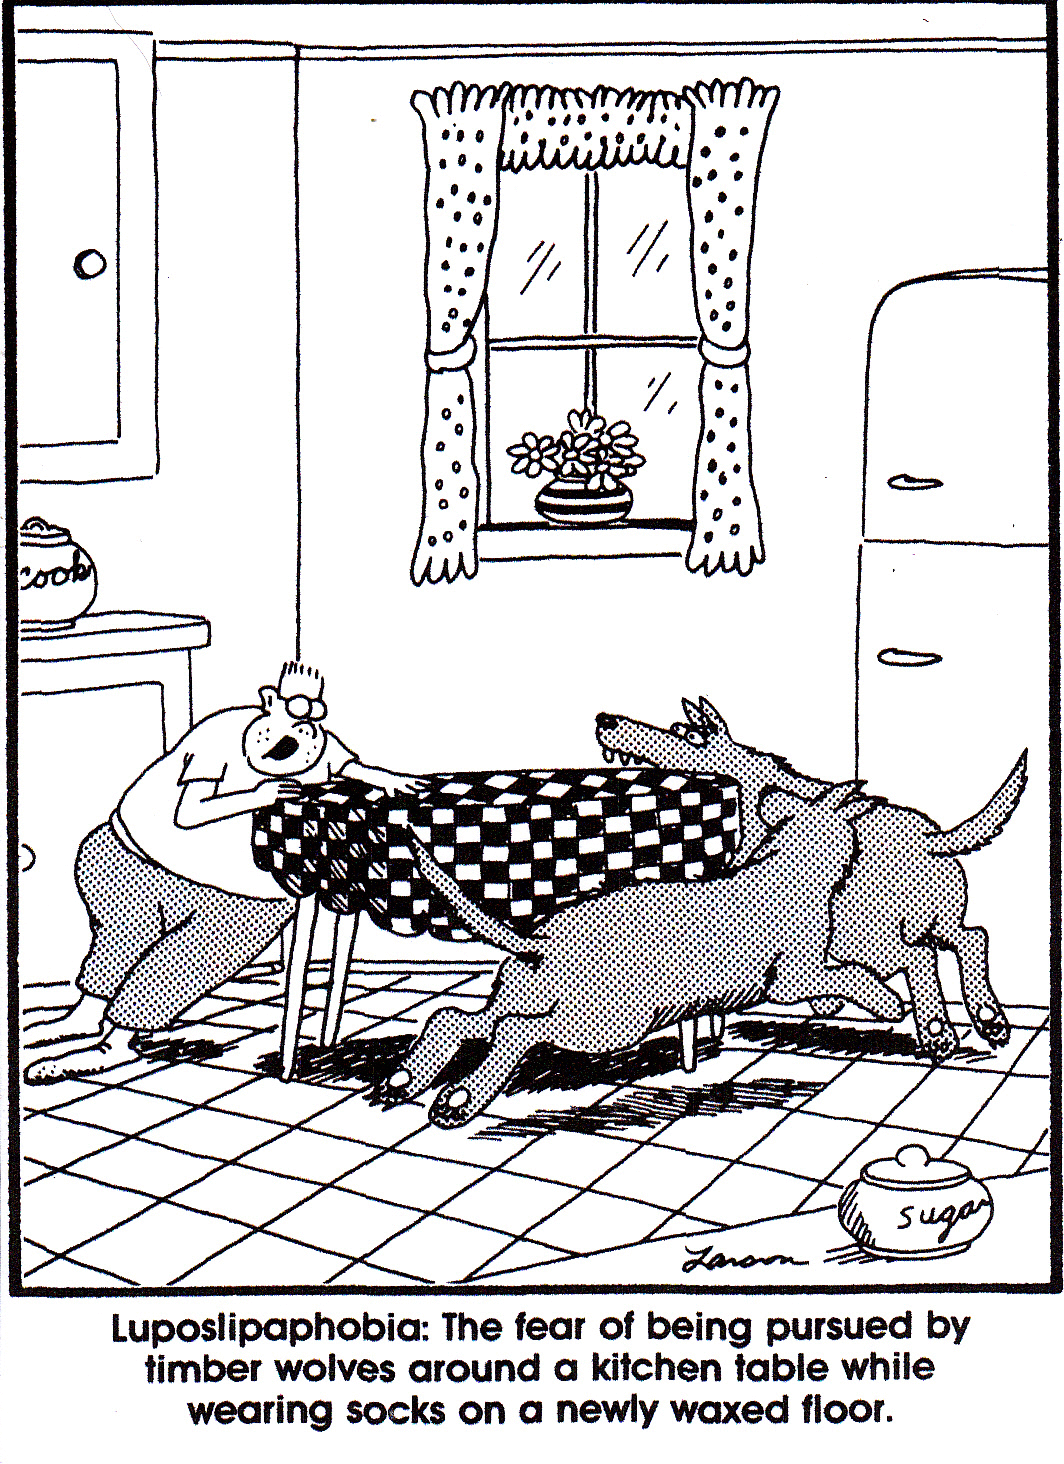
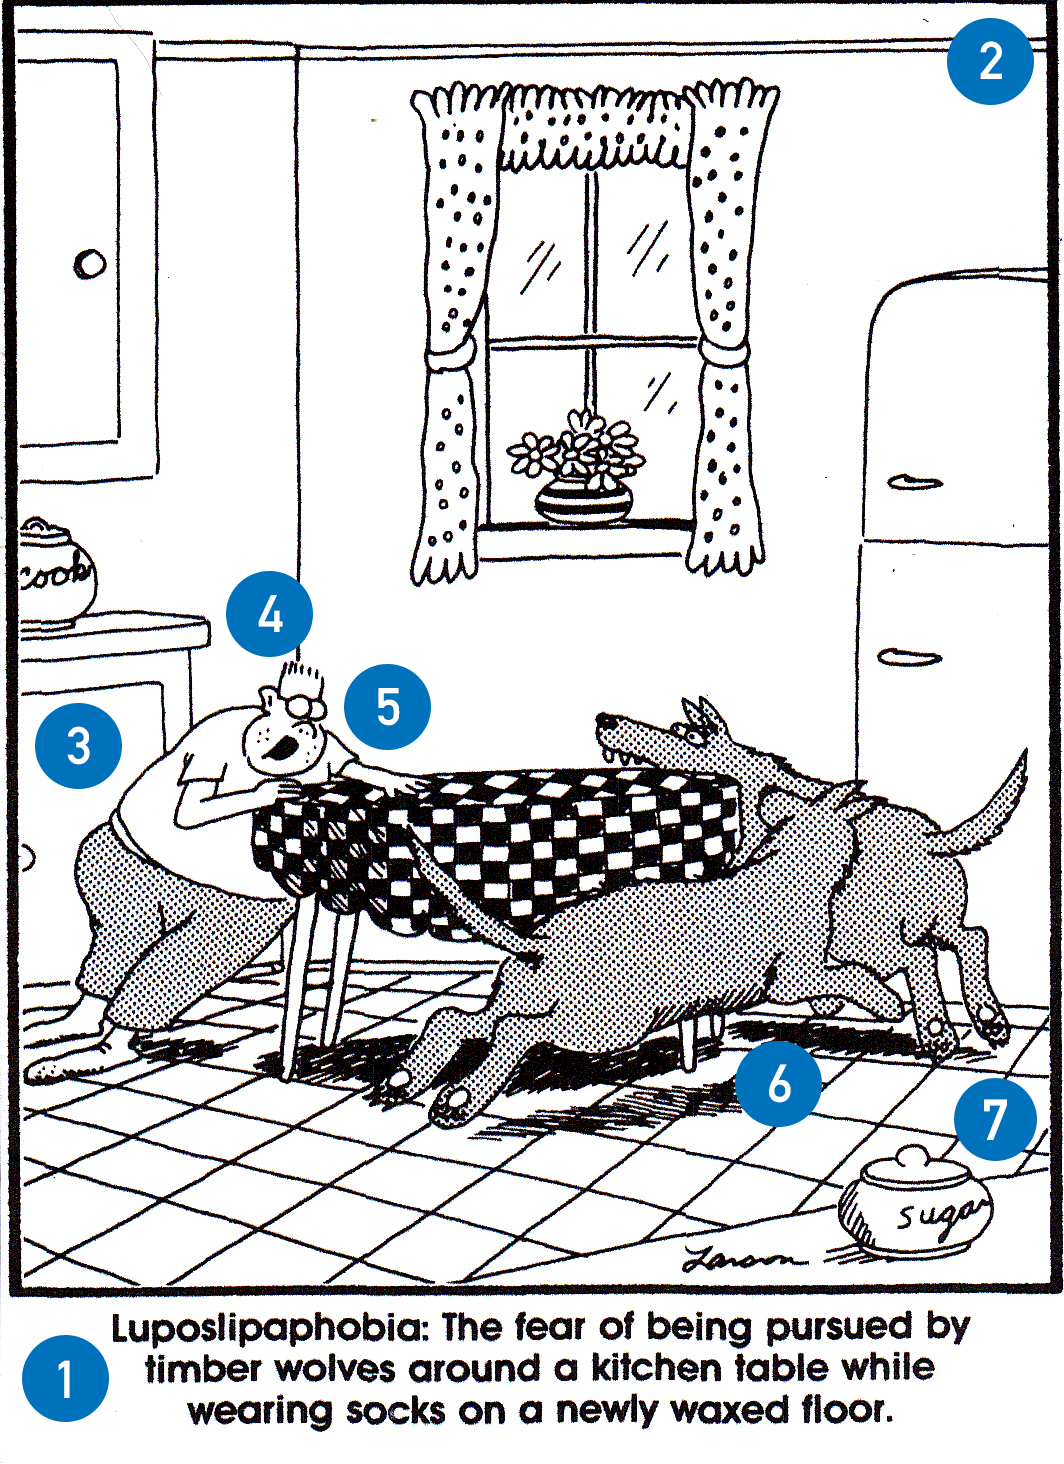
🛠 Updated Photo Explorer UI and analytics for events [Court]

diff --git a/dist/newsroom.min.js b/dist/newsroom.min.js
@@ -274,7 +274,7 @@ eval("__webpack_require__.r(__webpack_exports__);\n/* harmony export (binding) *
 /***/ (function(module, __webpack_exports__, __webpack_require__) {
 
 "use strict";
-eval("__webpack_require__.r(__webpack_exports__);\n/* harmony export (binding) */ __webpack_require__.d(__webpack_exports__, \"default\", function() { return PhotoExplorer; });\n/* harmony import */ var _libs_Image_Map_Resizer_imageMapResizer_min__WEBPACK_IMPORTED_MODULE_0__ = __webpack_require__(/*! ../libs/Image-Map-Resizer/imageMapResizer.min */ \"./src/libs/Image-Map-Resizer/imageMapResizer.min.js\");\n/* harmony import */ var _libs_Image_Map_Resizer_imageMapResizer_min__WEBPACK_IMPORTED_MODULE_0___default = /*#__PURE__*/__webpack_require__.n(_libs_Image_Map_Resizer_imageMapResizer_min__WEBPACK_IMPORTED_MODULE_0__);\n\n\nfunction PhotoExplorer(container, json) {\n    // get json from location\n    Newsroom.ajax(json).then(function (data) {\n        // make interactive float left \n        container.classList.add('inline');\n        // import \"rapid\" from newroom to write less code\n        var R = new Newsroom.rapid;\n        // create/append image & set map id\n        var image = R.c('img');\n        image.setAttribute('src', data.photo);\n        image.setAttribute('usemap', '#image-map');\n        R.a(container, image);\n        // append map & resize it\n        container.innerHTML += data.hotspots.map;\n        _libs_Image_Map_Resizer_imageMapResizer_min__WEBPACK_IMPORTED_MODULE_0___default()();\n        // create span to append info when hotspot is clicked\n        var info = R.c('span');\n        info.innerText = data.intro;\n        info.style.fontSize = '0.75em';\n        R.a(container, info);\n        // set event listeners for all the hotspots\n        var map = document.querySelectorAll('map[name=\"image-map\"] area');\n        R.e(map, function (elem) {\n            elem.onclick = function () {\n                // get number from a data attribute\n                var num = elem.getAttribute('data-hotspot');\n                num = parseInt(num) - 1;\n                // append info from json\n                info.innerText = data.hotspots.info[num];\n            }\n        });\n    });\n}\n\n//# sourceURL=webpack:///./src/scripts/photoExplorer.js?");
+eval("__webpack_require__.r(__webpack_exports__);\n/* harmony export (binding) */ __webpack_require__.d(__webpack_exports__, \"default\", function() { return PhotoExplorer; });\n/* harmony import */ var _libs_Image_Map_Resizer_imageMapResizer_min__WEBPACK_IMPORTED_MODULE_0__ = __webpack_require__(/*! ../libs/Image-Map-Resizer/imageMapResizer.min */ \"./src/libs/Image-Map-Resizer/imageMapResizer.min.js\");\n/* harmony import */ var _libs_Image_Map_Resizer_imageMapResizer_min__WEBPACK_IMPORTED_MODULE_0___default = /*#__PURE__*/__webpack_require__.n(_libs_Image_Map_Resizer_imageMapResizer_min__WEBPACK_IMPORTED_MODULE_0__);\n\n\nfunction PhotoExplorer(container, json) {\n    // get json from location\n    Newsroom.ajax(json).then(function (data) {\n        // make interactive float left \n        container.classList.add('inline');\n        // import \"rapid\" from newroom to write less code\n        var R = new Newsroom.rapid;\n        // create/append image & set map id\n        var image = R.c('img');\n        image.setAttribute('src', data.photo);\n        image.setAttribute('usemap', '#image-map');\n        R.a(container, image);\n        // append map & resize it\n        container.innerHTML += data.hotspots.map;\n        _libs_Image_Map_Resizer_imageMapResizer_min__WEBPACK_IMPORTED_MODULE_0___default()();\n        // create span to append info when hotspot is clicked\n        var info = R.c('span');\n        info.innerHTML = data.intro;\n        info.style.fontSize = '0.75em';\n        R.a(container, info);\n        // set event listeners for all the hotspots\n        var map = document.querySelectorAll('map[name=\"image-map\"] area');\n        R.e(map, function (elem) {\n            elem.onclick = function () {\n                // get number from a data attribute\n                var num = elem.getAttribute('data-hotspot');\n                num = parseInt(num) - 1;\n                // append info from json\n                info.innerHTML = '<b>' + (num + 1) + '.</b> ' + data.hotspots.info[num];\n                // log event in google analytics \n                if ('ga' in window) {\n                    ga('send', 'event', 'Photo Explorer (Hotspot Clicked)', window.location.href, (num + 1));\n                }\n            }\n        });\n    });\n}\n\n//# sourceURL=webpack:///./src/scripts/photoExplorer.js?");
 
 /***/ }),
 

diff --git a/src/scripts/photoExplorer.js b/src/scripts/photoExplorer.js
@@ -17,7 +17,7 @@ export default function PhotoExplorer(container, json) {
         imageMapResize();
         // create span to append info when hotspot is clicked
         var info = R.c('span');
-        info.innerText = data.intro;
+        info.innerHTML = data.intro;
         info.style.fontSize = '0.75em';
         R.a(container, info);
         // set event listeners for all the hotspots
@@ -28,7 +28,11 @@ export default function PhotoExplorer(container, json) {
                 var num = elem.getAttribute('data-hotspot');
                 num = parseInt(num) - 1;
                 // append info from json
-                info.innerText = data.hotspots.info[num];
+                info.innerHTML = '<b>' + (num + 1) + '.</b> ' + data.hotspots.info[num];
+                // log event in google analytics 
+                if ('ga' in window) {
+                    ga('send', 'event', 'Photo Explorer (Hotspot Clicked)', window.location.href, (num + 1));
+                }
             }
         });
     });
